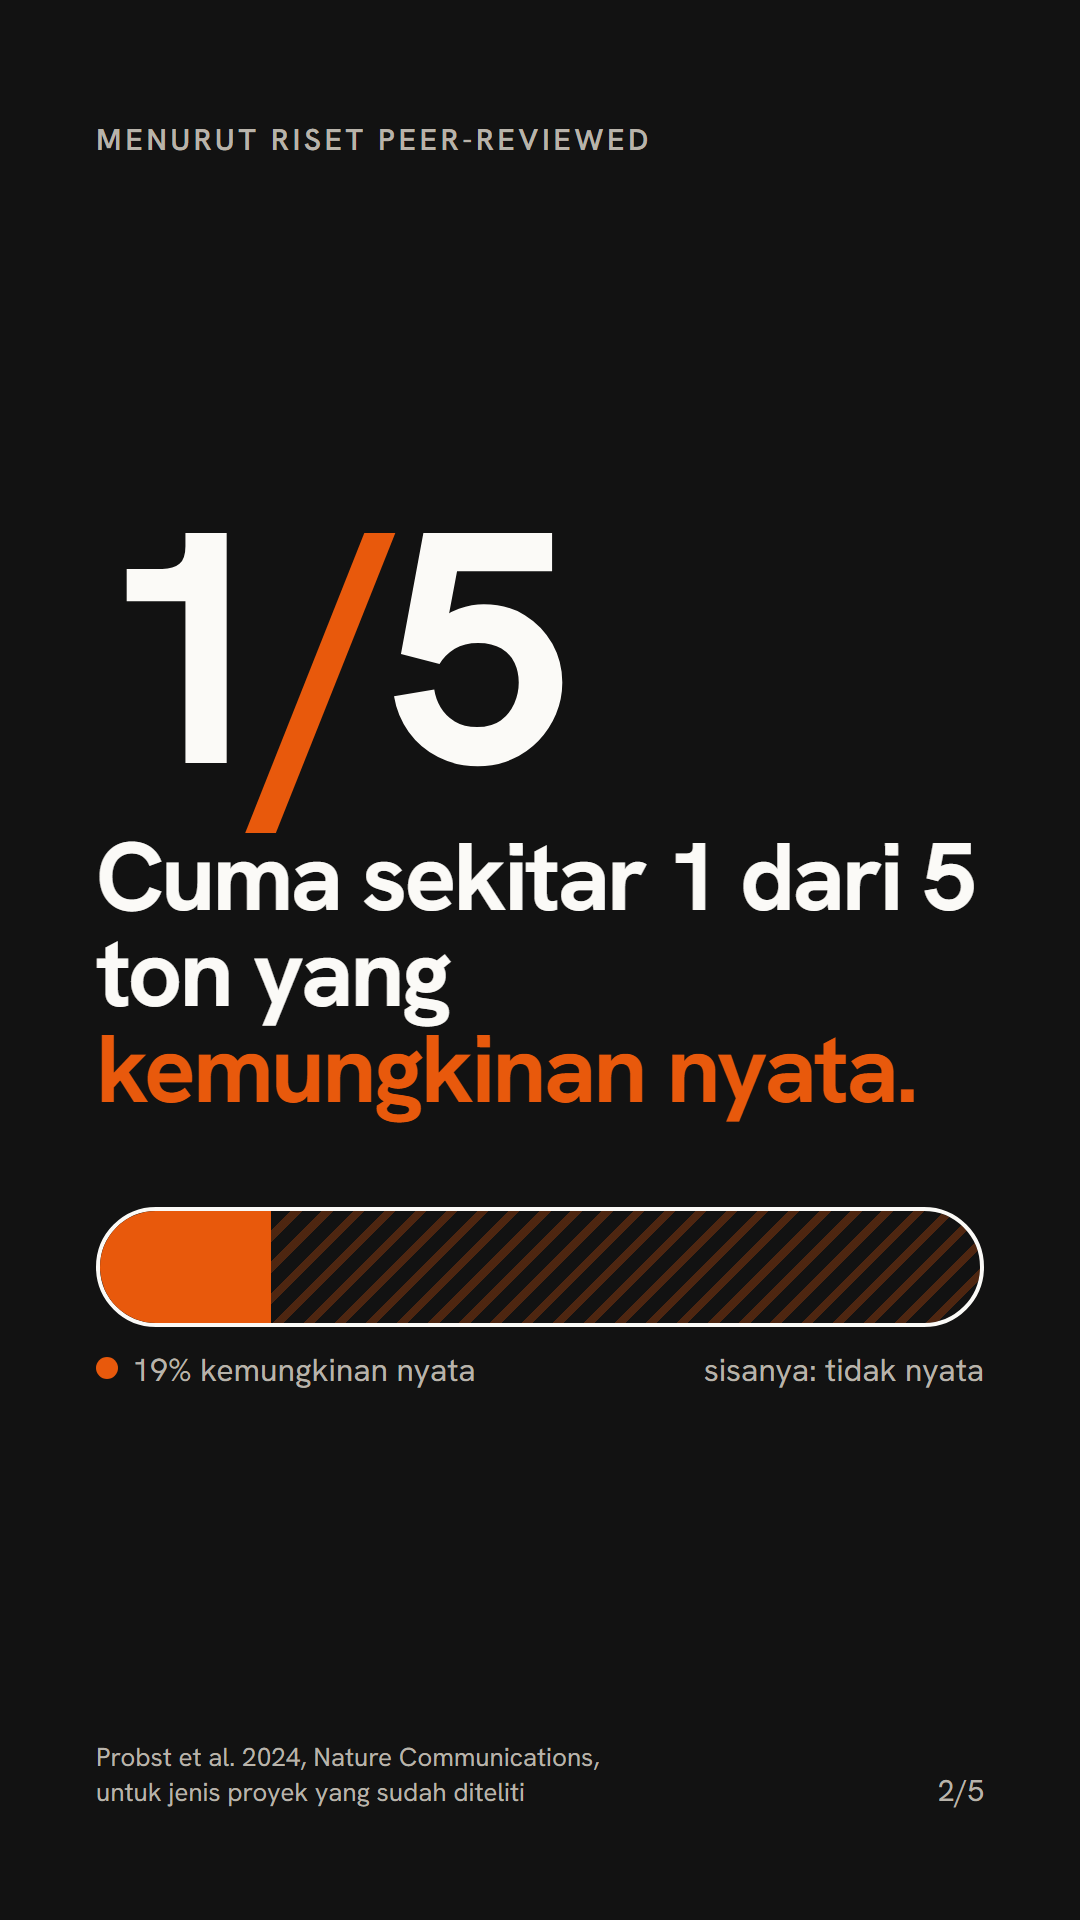
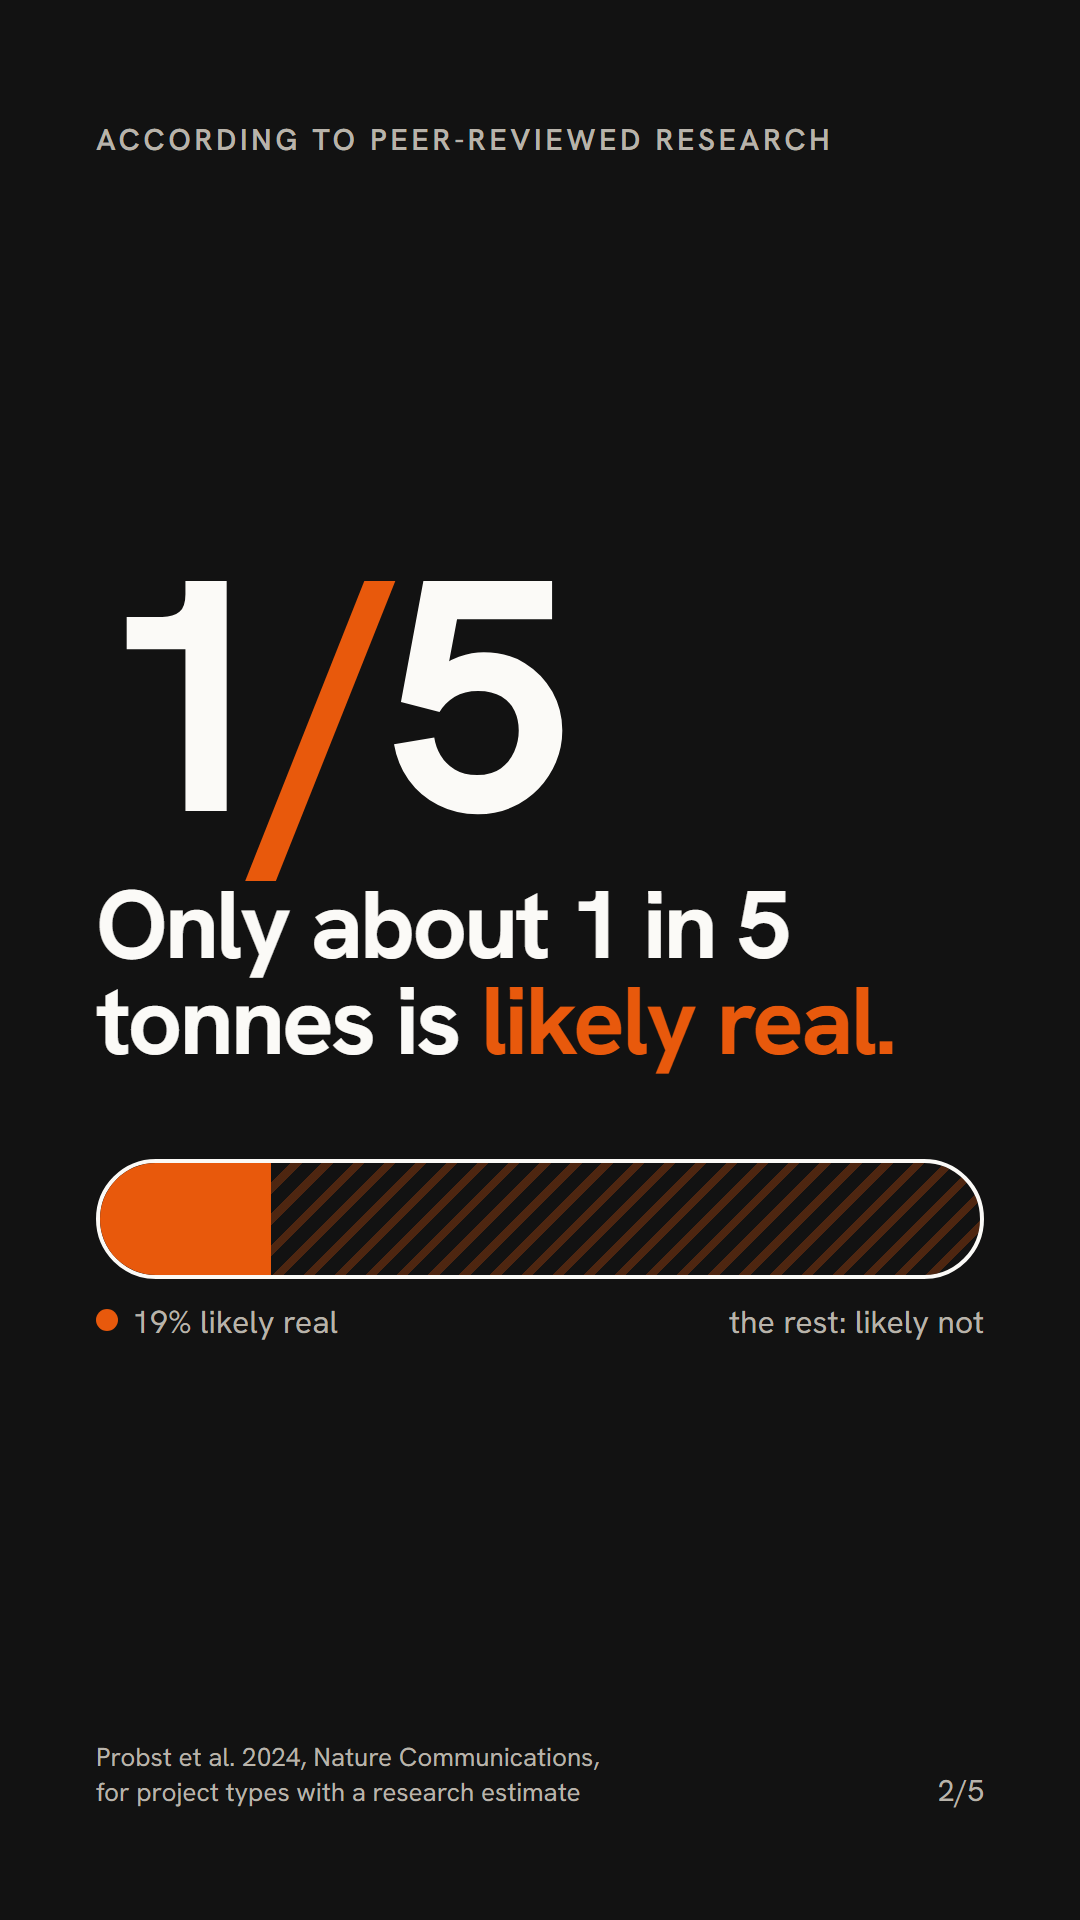
brand: WhatsApp status slides in English

diff --git a/brand/social/status.html b/brand/social/status.html
@@ -1,5 +1,5 @@
 <!doctype html>
-<html lang="id">
+<html lang="en">
 <head>
 <meta charset="utf-8">
 <title>Netra · WhatsApp status</title>
@@ -25,7 +25,7 @@ h2 { font-size: 96px; line-height: 1; letter-spacing: -.03em; font-weight: 700; 
 p.lead { font-size: 50px; line-height: 1.25; color: var(--muted); }
 .foot { margin-top: auto; display: flex; justify-content: space-between; align-items: flex-end; font-size: 30px; color: var(--muted); }
 .url { font: 500 38px "Fragment Mono"; color: inherit; }
-.src { font-size: 26px; color: var(--muted); line-height: 1.35; }
+.src { font-size: 26px; white-space: nowrap; color: var(--muted); line-height: 1.35; }
 .grow { flex: 1; }
 /* claimed vs real bar */
 .bar { position: relative; height: 120px; border: 4px solid currentColor; border-radius: 999px; overflow: hidden; }
@@ -40,7 +40,7 @@ p.lead { font-size: 50px; line-height: 1.25; color: var(--muted); }
 .dark .card { background: #1c1b19; box-shadow: none; }
 .row { display: flex; justify-content: space-between; align-items: center; gap: 30px; padding: 26px 0; border-top: 2px solid var(--line); font-size: 38px; }
 .row:first-of-type { border-top: 0; }
-.tag { display: inline-block; font: 600 26px "Hanken Grotesk"; letter-spacing: .08em; text-transform: uppercase; border-radius: 999px; padding: 10px 22px; }
+.tag { display: inline-block; white-space: nowrap; flex: none; font: 600 26px "Hanken Grotesk"; letter-spacing: .08em; text-transform: uppercase; border-radius: 999px; padding: 10px 22px; }
 .warn { background: var(--signal-text); color: var(--paper); }
 .ghost { border: 3px solid currentColor; color: var(--signal); }
 .dot { display: inline-block; width: 22px; height: 22px; border-radius: 99px; background: var(--signal); margin-right: 14px; vertical-align: 2px; }
@@ -57,71 +57,71 @@ p.lead { font-size: 50px; line-height: 1.25; color: var(--muted); }
 <section class="s" data-s="1">
   <div class="brand"><svg class="mark" viewBox="0 0 34 34"><circle class="ring" cx="17" cy="17" r="15" fill="none" stroke-width="3"/><path class="half" d="M17 2A15 15 0 0 0 17 32Z"/><circle class="pupil" cx="17" cy="17" r="5"/></svg>netra</div>
   <div class="grow"></div>
-  <p class="eyebrow">Sejak 2020</p>
-  <h1 style="margin-top:28px">876 juta ton kredit karbon dipakai untuk klaim hijau.</h1>
-  <p class="lead" style="margin-top:56px">Perusahaan bilang "netral karbon". Tapi berapa yang beneran ngurangin emisi?</p>
+  <p class="eyebrow">Since 2020</p>
+  <h1 style="margin-top:28px">876 million tonnes of carbon credits used for green claims.</h1>
+  <p class="lead" style="margin-top:56px">Companies say "carbon neutral". How much of it actually cut emissions?</p>
   <div class="grow"></div>
   <div class="foot"><span class="src">Data: Berkeley VROD v2026-08, Verra + Gold Standard</span><span>1/5</span></div>
 </section>
 
 <!-- 2: one in five -->
 <section class="s dark" data-s="2">
-  <p class="eyebrow">Menurut riset peer-reviewed</p>
+  <p class="eyebrow">According to peer-reviewed research</p>
   <div class="grow"></div>
   <div class="big">1<span class="o">/</span>5</div>
-  <h2 style="margin-top:40px">Cuma sekitar 1 dari 5 ton yang <span class="o">kemungkinan nyata.</span></h2>
+  <h2 style="margin-top:40px">Only about 1 in 5 tonnes is <span class="o">likely real.</span></h2>
   <div style="margin-top:90px">
     <div class="bar"><i style="width:19.4%"></i><b style="left:19.4%"></b></div>
-    <div class="legend"><span><span class="dot"></span>19% kemungkinan nyata</span><span>sisanya: tidak nyata</span></div>
+    <div class="legend"><span><span class="dot"></span>19% likely real</span><span>the rest: likely not</span></div>
   </div>
   <div class="grow"></div>
-  <div class="foot"><span class="src">Probst et al. 2024, Nature Communications,<br>untuk jenis proyek yang sudah diteliti</span><span>2/5</span></div>
+  <div class="foot"><span class="src">Probst et al. 2024, Nature Communications,<br>for project types with a research estimate</span><span>2/5</span></div>
 </section>
 
 <!-- 3: hidden -->
 <section class="s" data-s="3">
-  <p class="eyebrow">Siapa yang ngeklaim?</p>
+  <p class="eyebrow">Who is claiming?</p>
   <div class="grow"></div>
   <div class="big o">41%</div>
-  <h2 style="margin-top:40px">dari ton itu tidak menyebut nama sama sekali.</h2>
-  <p class="lead" style="margin-top:50px">Kolomnya kosong, atau cuma tertulis <b style="color:var(--ink)">"Not Disclosed"</b>: 89 juta ton. Lebih banyak dari perusahaan mana pun.</p>
-  <p class="lead" style="margin-top:30px">Klaim tanpa nama nggak bisa dicek siapa-siapa.</p>
+  <h2 style="margin-top:40px">of retired tonnes name nobody at all.</h2>
+  <p class="lead" style="margin-top:50px">The field is blank, or just says <b style="color:var(--ink)">"Not Disclosed"</b>: 89 million tonnes. More than any company.</p>
+  <p class="lead" style="margin-top:30px">A claim without a name cannot be checked by anyone.</p>
   <div class="grow"></div>
-  <div class="foot"><span class="src">Retirement Verra + Gold Standard sejak 2020</span><span>3/5</span></div>
+  <div class="foot"><span class="src">Verra + Gold Standard retirements since 2020</span><span>3/5</span></div>
 </section>
 
 <!-- 4: product -->
 <section class="s" data-s="4">
   <p class="eyebrow">Netra</p>
-  <h2 style="margin-top:28px">Ketik nama perusahaan. Lihat nilainya.</h2>
+  <h2 style="margin-top:28px">Type a company. See what it is worth.</h2>
   <div class="card" style="margin-top:80px">
     <div style="display:flex;justify-content:space-between;align-items:center">
-      <div><p class="eyebrow">42,3 Mt dipensiunkan</p><p style="font-size:84px;font-weight:700;margin-top:10px">Shell</p></div>
+      <div><p class="eyebrow">42.3 Mt retired</p><p style="font-size:84px;font-weight:700;margin-top:10px">Shell</p></div>
       <span style="width:170px;height:170px;border-radius:40px;background:#d9d4cb;display:grid;place-items:center;font-size:110px;font-weight:700">C</span>
     </div>
-    <p style="font-size:42px;line-height:1.3;margin-top:36px">Dari kredit yang diteliti, sekitar <b class="o">23%</b> kemungkinan nyata.</p>
+    <p style="font-size:42px;line-height:1.3;margin-top:36px">Of its researched credits, about <b class="o">23%</b> are likely real.</p>
     <div class="bar" style="height:70px;margin-top:36px"><i style="width:23%"></i><b style="left:23%"></b></div>
   </div>
   <div class="grades" style="margin-top:80px">
     <span style="background:#1d4e89;color:#fff">A</span><span style="background:#3a6fb0;color:#fff">B</span><span class="c" style="background:#d9d4cb">C</span><span style="background:#f2a36b">D</span><span style="background:#b83a0e;color:#fff">E</span>
   </div>
   <div class="grow"></div>
-  <div class="foot"><span class="src">44.465 pembeli · data registry, riset, laporan emisi perusahaan</span><span>4/5</span></div>
+  <div class="foot"><span class="src">44,465 buyers · registry data, research, company emissions reports</span><span>4/5</span></div>
 </section>
 
 <!-- 5: live + chain + CTA -->
 <section class="s dark" data-s="5">
-  <p class="eyebrow"><span class="dot"></span>Live dari registry</p>
-  <h2 style="margin-top:28px">Tiap 10 menit, AI baca klaim hijau baru.</h2>
+  <p class="eyebrow"><span class="dot"></span>Live from the registry</p>
+  <h2 style="margin-top:28px">Every 10 minutes, AI reads new green claims.</h2>
   <div class="card" style="margin-top:64px;padding:44px 50px">
-    <div class="row"><span>Kartu kredit "碳中和"<br><span class="src">netral karbon 2024 · 501 t</span></span><span class="tag warn">Klaim netral offset</span></div>
-    <div class="row"><span>Kredit vintage 2016<br><span class="src">dipakai untuk klaim 2026</span></span><span class="tag ghost">Kredit zombie</span></div>
+    <div class="row"><span>Credit card "碳中和"<br><span class="src">"carbon neutral" 2024 · 501 t</span></span><span class="tag warn">Neutral via offsets</span></div>
+    <div class="row"><span>2016 vintage credit<br><span class="src">used for a 2026 claim</span></span><span class="tag ghost">Zombie credit</span></div>
   </div>
   <div class="chain" style="margin-top:64px">
-    <div class="block"><span>#4 Shell</span><span>✓ cocok</span></div>
-    <div class="block flag"><span>#7 klaim ganda</span><span>⚠ ditandai</span></div>
+    <div class="block"><span>#4 Shell</span><span>✓ matches</span></div>
+    <div class="block flag"><span>#7 double claim</span><span>⚠ flagged</span></div>
   </div>
-  <p class="lead" style="margin-top:40px">Dicatat di blockchain. Nggak bisa diedit diam-diam.</p>
+  <p class="lead" style="margin-top:40px">Recorded on a blockchain. Nobody can quietly edit it.</p>
   <div class="grow"></div>
   <span class="cta">netra.rofihosted.space</span>
   <div class="foot" style="margin-top:56px"><span class="src">IEEE ClimateChain Global Hackathon 2026 · Track 1</span><span>5/5</span></div>
